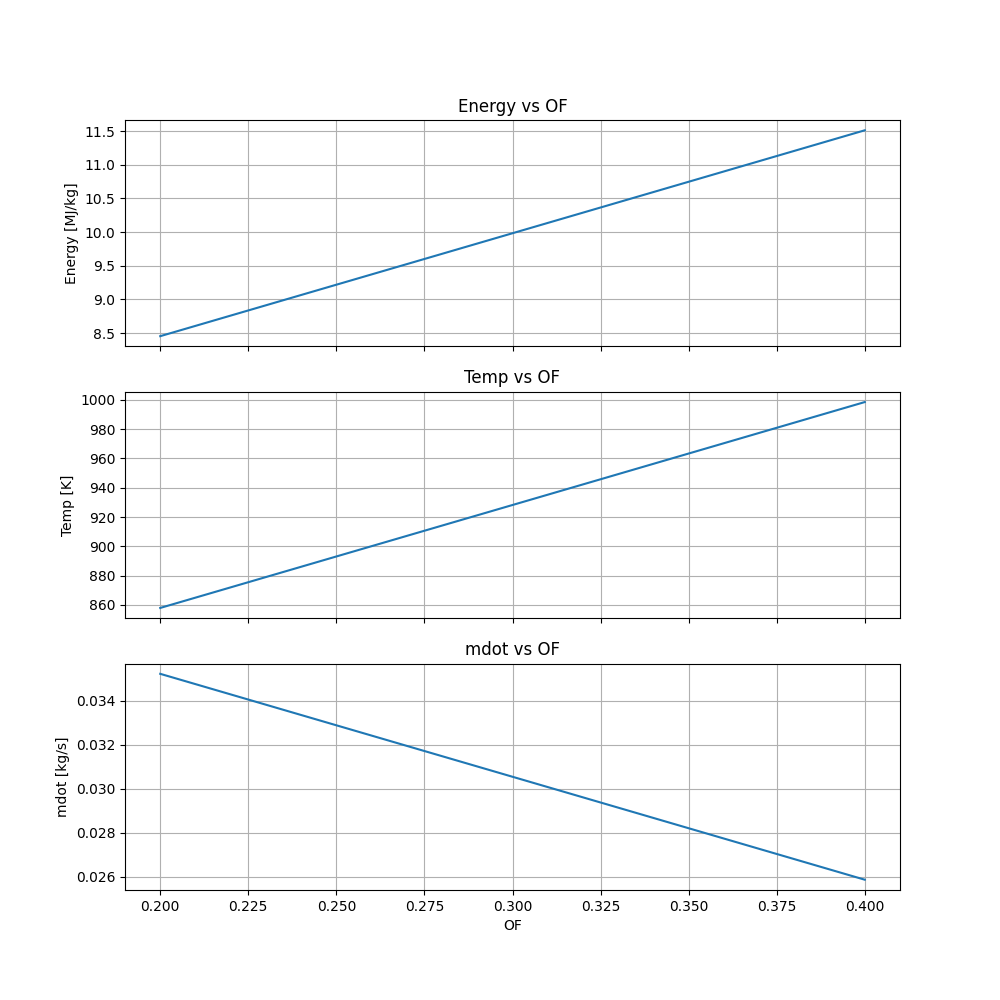
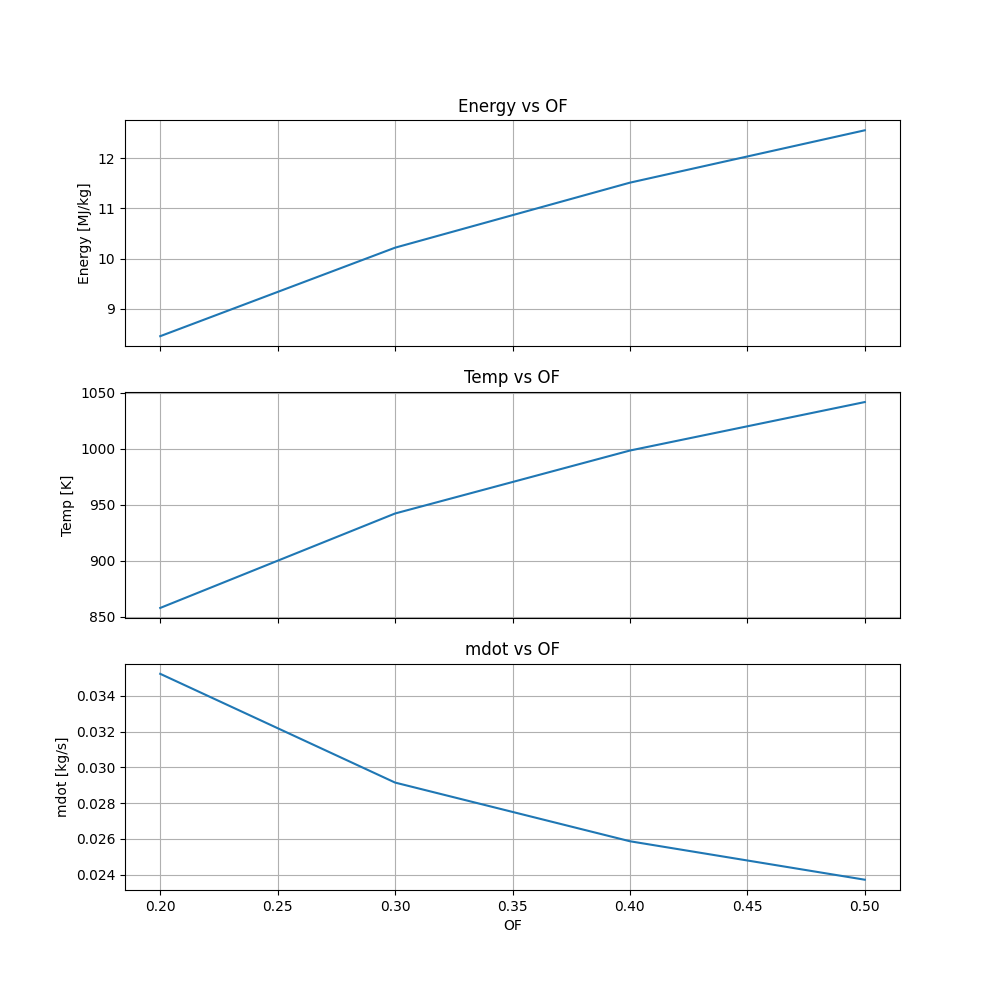
Added CSTAR efficiency to evap sim

diff --git a/MARLIN V2/Tenkara/4 - Subteams/Gas Generator/Development/GG_filmcooling.py b/MARLIN V2/Tenkara/4 - Subteams/Gas Generator/Development/GG_filmcooling.py
@@ -79,7 +79,7 @@ def Pc(LOx_feed, IPA_feed, Pc_in, pcA):
     mdot_ipa = mdot(config['fuel_Cda'], IPA_feed, Pc_in, config['IPA_rho'])
     OF = mdot_ox/max(mdot_ipa, 0.000000000001)
     #print(f'mdots {mdot_ox} and {mdot_ipa}')
-    cstar = 0.3048 * cea.get_Cstar(Pc_in/psi2pa, OF)
+    cstar = 0.3048 * config['CSTAR_eff'] * cea.get_Cstar(Pc_in/psi2pa, OF)
     Pc_f = cstar * (mdot_ox+mdot_ipa) / config['stator_throat_area']
     pcA.append(Pc_f)
     #print(len(pcA))
@@ -194,11 +194,11 @@ while abs(film[2] - combustion_gas[2]) > 1 and step_num < 2000:
 OutPut_gas = [film[0] + combustion_gas[0], film[1] + combustion_gas[1], film[2],
                (film[0]*film[3]+combustion_gas[0]*combustion_gas[3])/(film[0]+combustion_gas[0])]
 
-plt.plot(film_temp)
-plt.plot(gas_temp)
-plt.legend(['film','combustion gas'])
-plt.grid()
-plt.show()
+# plt.plot(film_temp)
+# plt.plot(gas_temp)
+# plt.legend(['film','combustion gas'])
+# plt.grid()
+# plt.show()
 
 print(f'Output mdot:  {OutPut_gas[0]:.3f} kg/s')
 print(f'Output Temp:  {OutPut_gas[2]:.3f} K')
